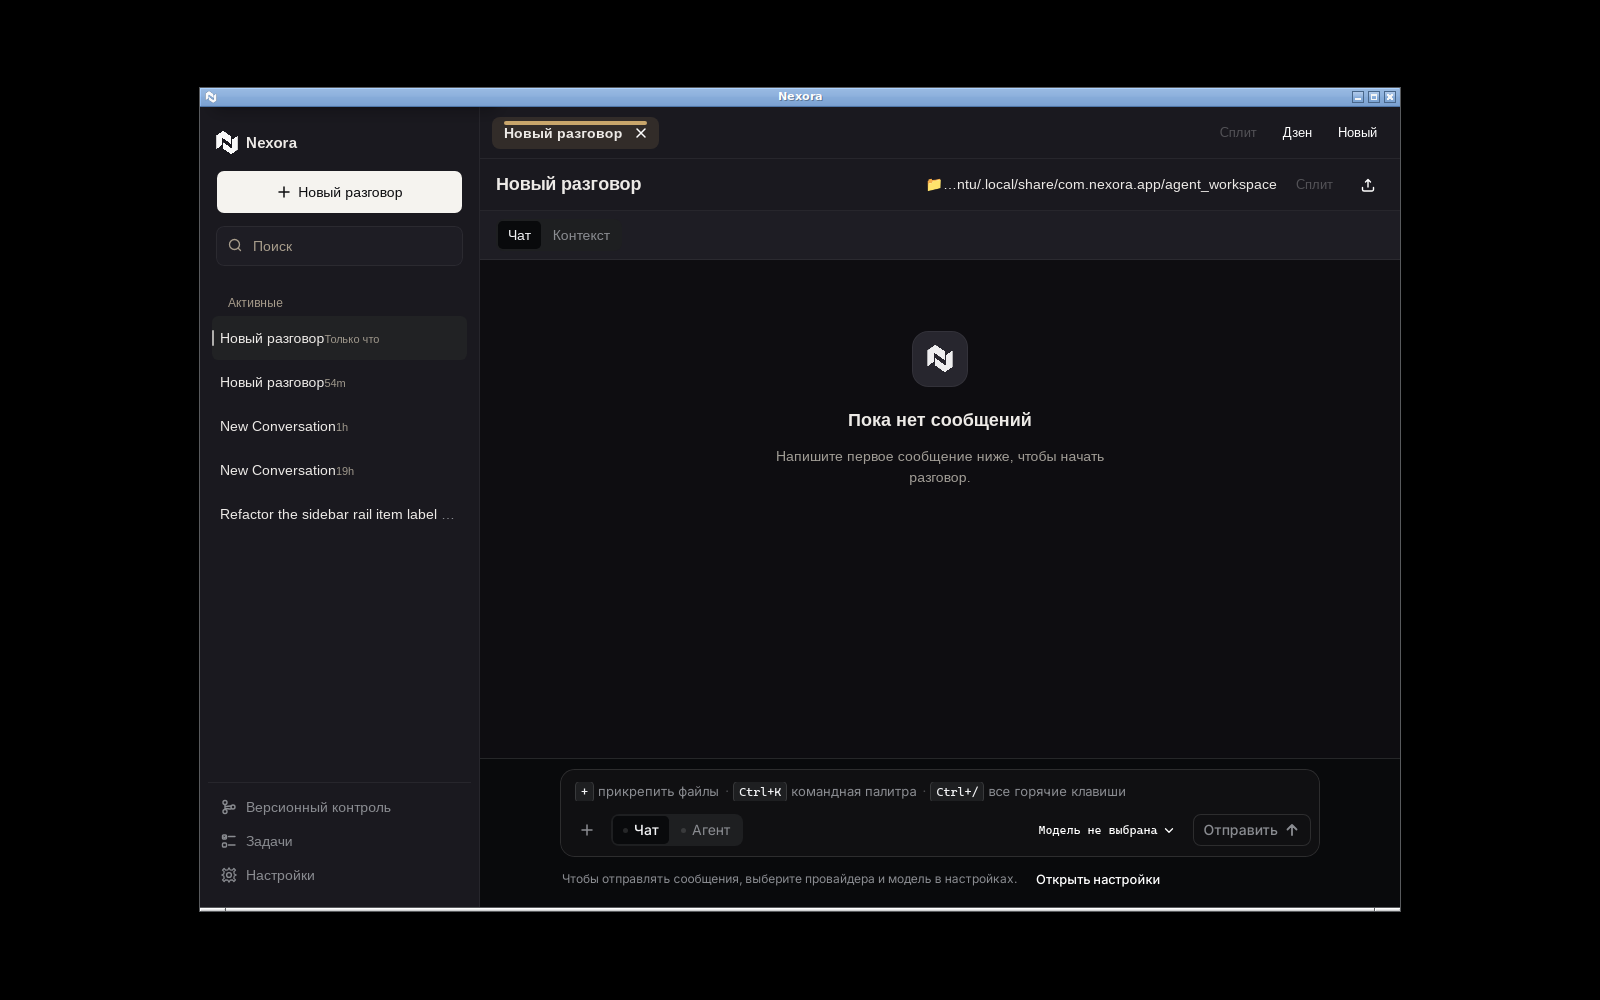
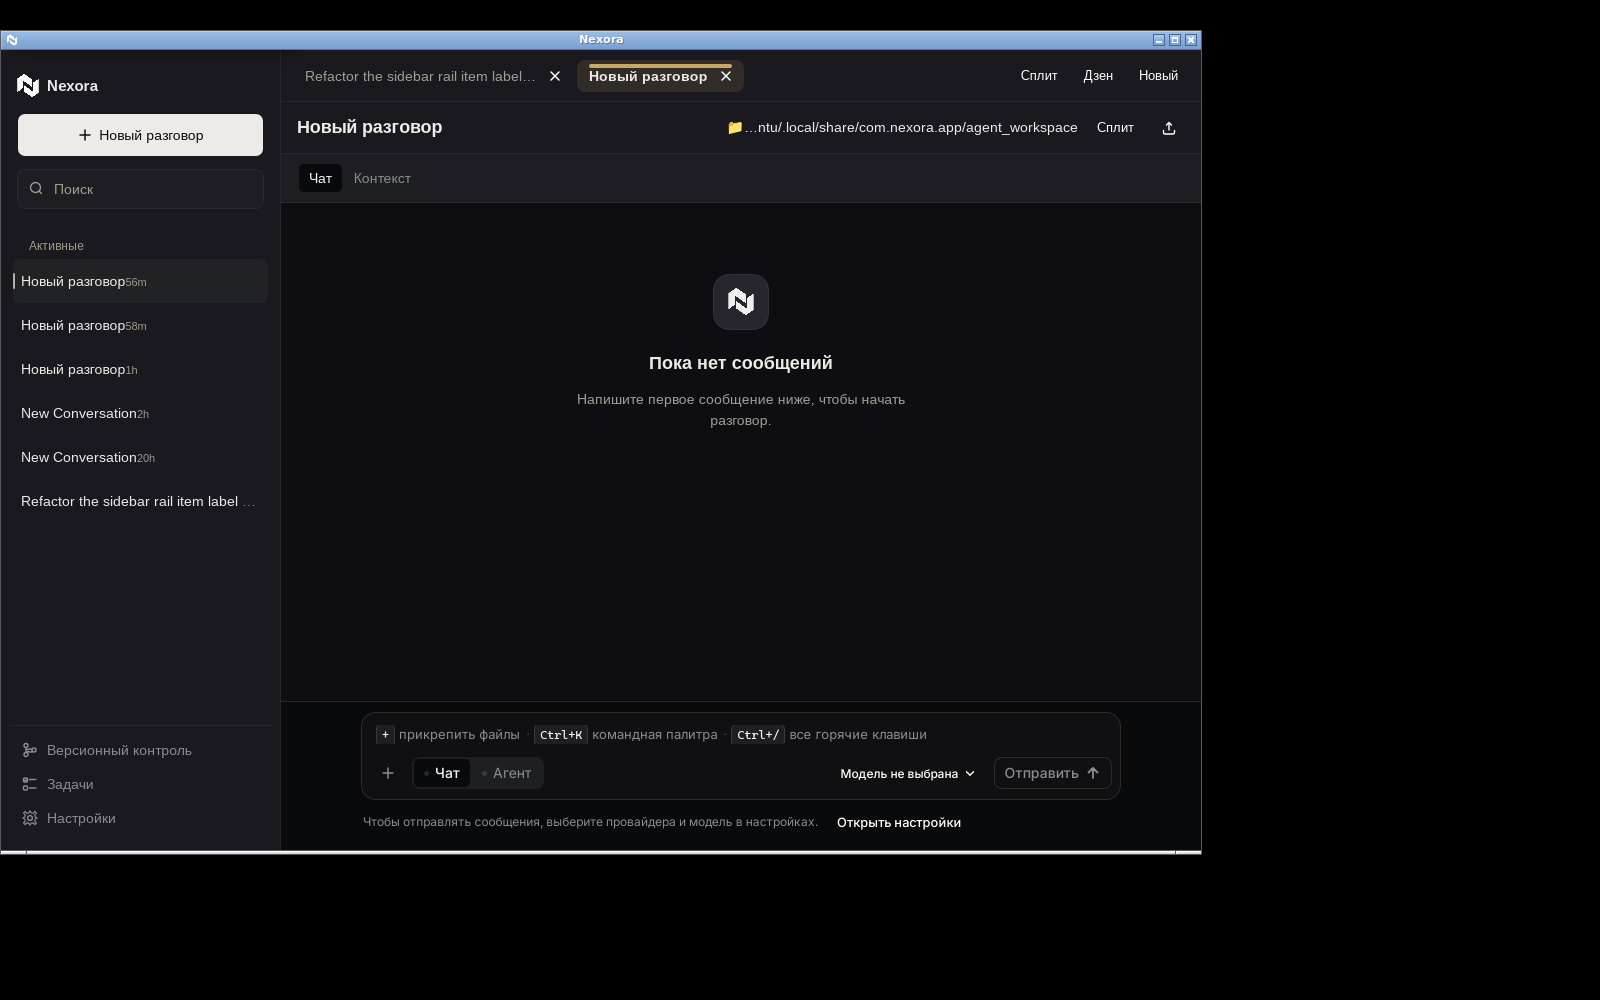
fix(#235): model-picker placeholder to sans face; re-shoot composer shots
composer.css gave .nex-composer-model-name unconditional --font-mono,
so the 'no model selected' UI label painted Cascadia (THEME section 3:
mono never UI labels). The span now carries is-placeholder when
selectedModel is null and renders --font-sans; real model names and
menu rows stay mono; kbd chips untouched. Re-shot 01/04/05/06 on the
fixed build.

diff --git a/src/components/Composer.tsx b/src/components/Composer.tsx
@@ -298,7 +298,13 @@ export default function Composer({
                   aria-label={t("conv.modePickerAria")}
                   title={t("conv.modelTagTitle")}
                 >
-                  <span className="nex-composer-model-name">
+                  <span
+                    className={
+                      selectedModel === null
+                        ? "nex-composer-model-name is-placeholder"
+                        : "nex-composer-model-name"
+                    }
+                  >
                     {selectedModel ?? t("conv.modelNone")}
                   </span>
                   <ChevronDownIcon />

diff --git a/src/styles/composer.css b/src/styles/composer.css
@@ -314,6 +314,14 @@
   font-size: 0.75rem;
 }
 
+/* Placeholder state ("no model selected") is a UI label, not a model
+   name: THEME §3 scopes mono to code/paths/ids/model names, so it
+   renders the sans face. A real model name keeps --font-mono above;
+   the menu rows below are model ids and stay mono too. */
+.nex-composer-model-name.is-placeholder {
+  font-family: var(--font-sans);
+}
+
 /* The menu: the same `--popover` tone as the composer shell,
    separated by the same hairline. The trigger's own
    open-state ring comes from the primitive. */
